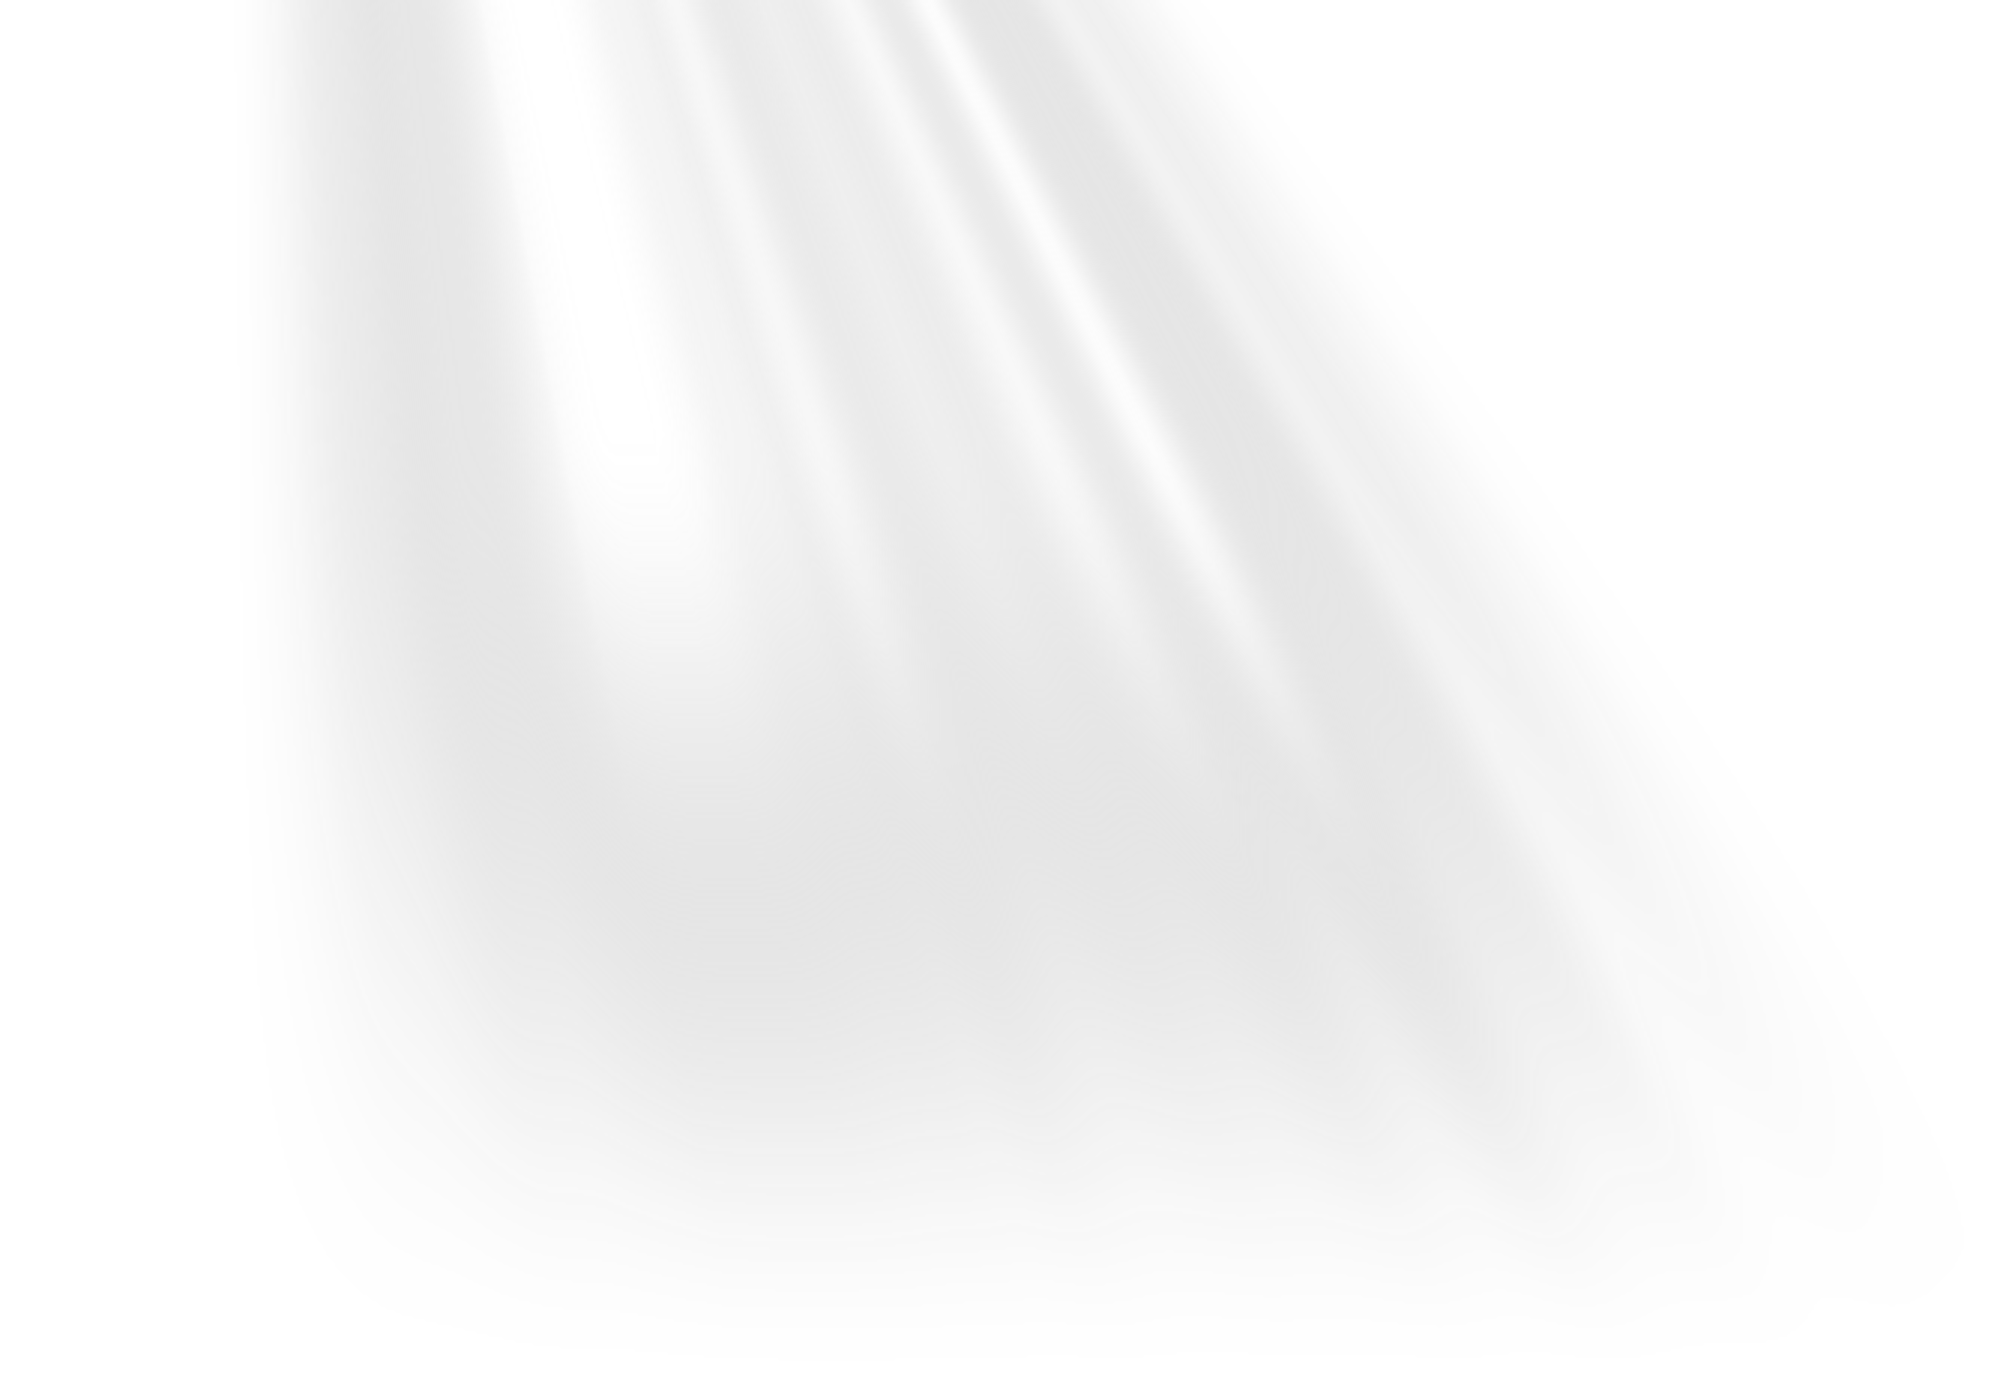
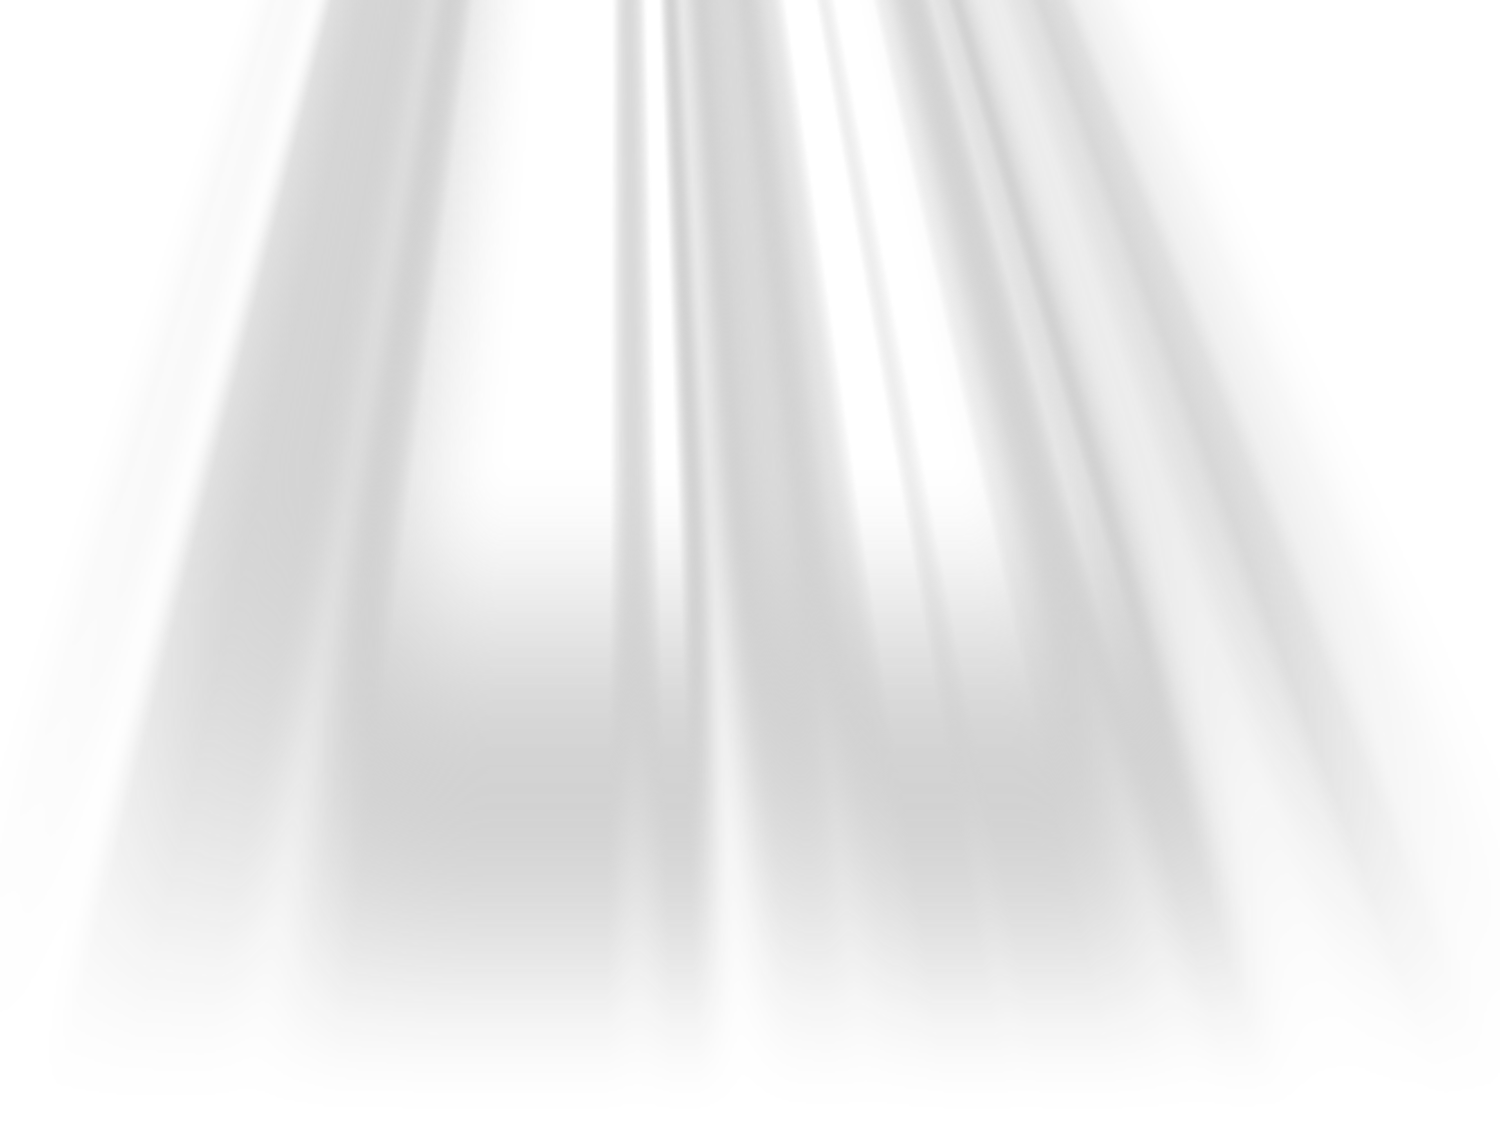
styling

diff --git a/css/styles.css b/css/styles.css
@@ -2182,8 +2182,9 @@ input[type="button"] {
     font-size: var(--text-s);
     text-transform: uppercase;
     letter-spacing: .35em;
-/*     height: var(--btn-height);
- */    line-height: calc(var(--btn-height) - 4px);
+    /*     height: var(--btn-height);
+ */
+    line-height: calc(var(--btn-height) - 4px);
     padding: .5rem 2rem;
     margin: 0 0.4rem var(--vspace-0_5) 0;
     color: var(--color-btn-text);
@@ -3010,7 +3011,8 @@ img.u-pull-left {
  * ------------------------------------------------------------------- */
 .s-header__menu-toggle {
     --menu-toggle-height: 4.2rem;
-
+    border-radius: 5px;
+    ;
     z-index: 102;
     padding-right: calc(var(--menu-toggle-height) + .2rem);
     padding-left: 1.2rem;
@@ -3083,7 +3085,7 @@ img.u-pull-left {
     line-height: 2.8rem;
     padding: var(--vspace-1_25) var(--vspace-1);
     height: 100%;
-    width: 300px;
+    width: 350px;
     transform: translateX(100%);
     overflow-y: auto;
     transition-property: transform;
@@ -3274,7 +3276,7 @@ img.u-pull-left {
 
 @media screen and (max-width: 600px) {
     .s-intro__bg {
-        height: 115%;
+        height: 105%;
     }
 }
 
@@ -3285,31 +3287,27 @@ img.u-pull-left {
     position: absolute;
     top: -20%;
     left: 50%;
-    transform-origin: 50% 0%;
-    transform: translateX(-50%);
-    width: 100%;
-    height: 150%;
+    transform-origin: 50% 50%;
+    transform: translate(-50%, -50%);
+    width: 100vw;
+    height: 180vh;
     pointer-events: none;
     opacity: .3;
-    animation: godrays 15s ease-in-out infinite;
+    animation: godrays 25s ease-in-out infinite;
     mix-blend-mode: screen;
+    background-repeat: no-repeat;
+    background-position: top center;
 }
 
 @media screen and (max-width: 600px) {
     .s-intro__godrays {
-        top: -10%;
-        height: 180%;
-        opacity: 0.45;
-        transform: translateX(-50%) scale(1.05);
-        z-index: 2;
-        mix-blend-mode: screen;
-        pointer-events: none;
-    }
+         width: 150vw;
+        }
 }
 
 /* On small screens, trigger the hover-like span effects after 3s. */
 @media screen and (max-width: 600px) {
-    
+
     .ss-animated .text-spruch span {
         animation: textSpruchMobileHover 0.6s ease-in-out 3s forwards;
     }
@@ -3323,6 +3321,7 @@ img.u-pull-left {
     from {
         color: var(--accent-2);
     }
+
     to {
         color: var(--accent-1);
     }
@@ -3335,6 +3334,7 @@ img.u-pull-left {
         transform: scale(1);
         filter: blur(0.3px);
     }
+
     to {
         color: var(--accent-2);
         letter-spacing: .15em;
@@ -3350,29 +3350,31 @@ img.u-pull-left {
     }
 
     10% {
-        opacity: 0.6;
+        opacity: 0.3;
     }
 
     25% {
-        opacity: 1;
-        transform: translateX(-50%) rotate(-3deg) scale(1.05);
+        opacity: .7;
+        transform: translateX(-50%) rotate(-3deg) scale(1.25);
     }
 
     40% {
+        opacity: 0;
         transform: translateX(-50%) rotate(4deg) scale(1.08);
     }
 
     55% {
-        transform: translateX(-50%) rotate(8deg) scale(1.05);
+        opacity: 0;
+        transform: translateX(-50%) rotate(8deg) scale(.95);
     }
 
     70% {
-        opacity: 1;
+        opacity: .6;
         transform: translateX(-50%) rotate(2deg) scale(1.02);
     }
 
     85% {
-        opacity: 0.7;
+        opacity: 0.4;
         transform: translateX(-50%) rotate(-6deg) scale(1);
     }
 
@@ -3475,8 +3477,13 @@ img.u-pull-left {
 }
 
 @media screen and (max-width: 600px) {
+    .s-intro__content {
+        padding-top: 12vh;
+        padding-bottom: 12vh;
+    }
+
     .s-intro__subtitle {
-        margin-top: 50px;
+        margin-top: 5vh;
         font-size: var(--text-xxl);
     }
 }
@@ -3874,6 +3881,7 @@ img.u-pull-left {
 .s-portfolio {
     background-image: url(../images/grid.png);
     background-position: center;
+    background-size: 200%;
     height: 100%;
     padding: 0;
     position: relative;
@@ -3886,9 +3894,9 @@ img.u-pull-left {
 }
 
 @media screen and (max-width: 600px) {
-   .s-portfolio__content {
+    .s-portfolio__content {
         padding-top: var(--vspace-2);
-   }
+    }
 }
 
 /* ------------------------------------------------------------------- 
@@ -4051,6 +4059,14 @@ img.u-pull-left {
     opacity: 1;
     visibility: visible;
     transform: translateX(0);
+}
+
+/* If a folio item is explicitly closed (via JS), force-hide its info
+   even when hovered (useful for touch devices where hover is simulated). */
+.folio-item.closed .folio-item__info {
+    opacity: 0 !important;
+    visibility: hidden !important;
+    transform: translateY(100%) !important;
 }
 
 /* ------------------------------------------------------------------- 
@@ -4216,13 +4232,40 @@ img.u-pull-left {
 .s-contact {
     --color-border: rgba(255, 255, 255, .05);
 
-    background: linear-gradient(45deg, var(--secondary-1), var(--primary-1));
-    background-repeat: no-repeat;
+    background-image: url(../images/stars.png);
+    background-repeat: repeat;
     background-position: center;
-    background-size: cover;
+    background-size: 150%;
     padding-top: var(--vspace-5);
     padding-bottom: var(--vspace-3);
     position: relative;
+    animation: bgmove 60s linear infinite;
+}
+
+@keyframes bgmove {
+    0% {
+        background-position: center;
+    }
+
+    100% {
+        background-position: center 100%;
+    }
+    
+}
+
+.s-contact::before {
+    content: "";
+    z-index: 2;
+    display: block;
+    position: absolute;
+    top: 0;
+    left: 0;
+    right: 0;
+    bottom: 0;
+    width: 100%;
+    height: 100%;
+    background: rgba(0, 0, 0, .8);
+    animation: bgfade 20s ease-in-out infinite alternate;
 }
 
 .s-contact .row {
@@ -4785,7 +4828,7 @@ a.link:hover {
 #anfahrt .s-portfolio__header {
     position: relative;
     z-index: 1;
-    background: url(../images/hero-bg.jpg);
+    background: url(../images/night.png);
     background-size: cover;
     background-repeat: no-repeat;
 }
@@ -4801,7 +4844,22 @@ a.link:hover {
     bottom: 0;
     width: 100%;
     height: 100%;
-    background: rgba(0, 0, 0, .9);
+    background: rgba(0, 0, 0, .8);
+    animation: bgfade 20s ease-in-out infinite alternate;
+}
+
+@keyframes bgfade {
+    0% {
+        opacity: .8;
+    }
+
+    50% {
+        opacity: .4;
+    }
+
+    100% {
+        opacity: .8;
+    }
 }
 
 #anfahrt .s-portfolio__header .row {
@@ -4954,9 +5012,12 @@ a.link:hover {
 }
 
 @media screen and (max-width: 600px) {
-   #spruch2, #spruch3, #spruch4 {
+
+    #spruch2,
+    #spruch3,
+    #spruch4 {
         padding-bottom: var(--vspace-5);
-   }
+    }
 }
 
 #spruch2 .text-spruch::before {
@@ -5062,3 +5123,4 @@ a.link:hover {
         transition: all 1s ease-in-out;
     }
 }
+

diff --git a/css/styles.xl.css b/css/styles.xl.css
@@ -1,0 +1,99 @@
+/* Extra-large screen adjustments (min-width: 2560px) */
+@media screen and (min-width: 2560px) {
+  :root {
+    --multiplier: 1.25;
+    --base-font-size: calc(1.8rem * var(--multiplier));
+    --space: calc(3.2rem * var(--multiplier));
+
+    --width-max: 2000px;
+    --width-wide: 2400px;
+    --width-wider: 2800px;
+    --width-widest: 3200px;
+    --width-grid-max: var(--width-wider);
+
+    --gutter: 3rem;
+  }
+
+  /* Slightly narrower page gutter for very wide viewports */
+  .row {
+    width: 86%;
+  }
+
+  /* Increase headline and display sizes */
+  h1,
+  .h1 {
+    font-size: calc(var(--text-display-1) * 1.15);
+    line-height: calc(var(--vspace-2) * 1.05);
+  }
+
+  .text-display-title {
+    font-size: calc(3rem * 1.25);
+  }
+
+  /* Hero title scale */
+  .s-intro__title span {
+    font-size: 14rem;
+  }
+
+  .s-intro__video {
+    width: 120vw;
+  }
+
+  /* Increase lightbox iframe size */
+  .basicLightbox iframe {
+    width: 1200px;
+  }
+
+  /* Give section headers more room */
+  .section-header {
+    max-width: 1100px;
+  }
+
+  /* Slightly larger button / controls */
+  .btn,
+  button,
+  input[type="submit"] {
+    font-size: calc(var(--text-size) * 1.05);
+    padding: .8rem 2.4rem;
+  }
+
+  /* Improve spacing on large portfolio bricks */
+  /* Make folio items smaller and fit 4 per row */
+  .folio-list .brick {
+    flex: none;
+    width: 25%;
+    padding: 20px;
+  }
+
+  /* Reduce overlay/info padding for smaller bricks */
+  .folio-item__info {
+    padding: 0 2.4rem 0 var(--vspace-1);
+    min-height: auto;
+  }
+
+  .folio-item__thumb img {
+    display: block;
+    width: 100%;
+    height: auto;
+    object-fit: cover;
+  }
+
+  /* Make social / fixed elements sit farther from edges */
+  .s-intro__social {
+    left: 6.6rem;
+  }
+
+  .s-intro__scroll {
+    right: 8.2rem;
+  }
+
+    .godrays {
+        width: 100vw;
+    height: 180vh;
+    }
+
+    .s-header__nav {
+        width: 500px;
+    }
+
+}

diff --git a/index.html b/index.html
@@ -11,6 +11,7 @@
     </script>
     <link rel="stylesheet" href="./css/vendor.css">
     <link rel="stylesheet" href="./css/styles.css">
+    <link rel="stylesheet" href="./css/styles.xl.css">
     <link rel="icon" type="image/png" sizes="16x16" href="./images/icons/favicon_io/favicon-16x16.png">
     <link rel="icon" type="image/png" sizes="32x32" href="./images/icons/favicon_io/favicon-32x32.png">
     <link rel="manifest" href="site.webmanifest">
